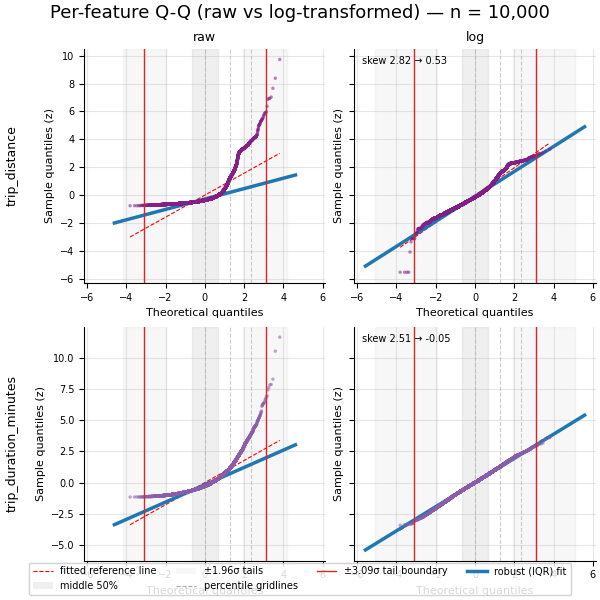
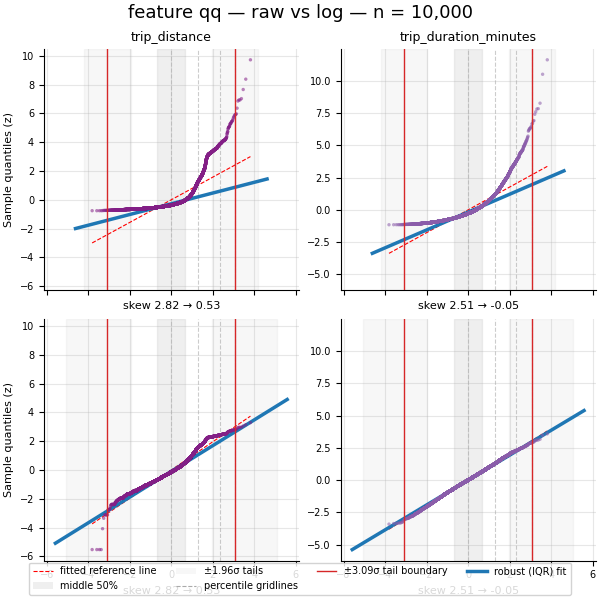
feat(qq): raw/log layout horizontal (raw top, log bottom, features as columns)

diff --git a/src/broadway/discover/qq.py b/src/broadway/discover/qq.py
@@ -292,30 +292,26 @@ def _plot_raw_log_pairs(
     n = len(pairs)
     colors = viz.palette_colors(n, palette)
     fig, axes = plt.subplots(
-        n, 2,
-        figsize=(2 * subplot_size, n * subplot_size),
-        sharex="row",
-        sharey="row",
+        2, n,
+        figsize=(n * subplot_size, 2 * subplot_size),
+        sharex="col",
+        sharey="col",
         squeeze=False,
         layout="constrained",
     )
-    axes[0][0].set_title("raw", fontsize=viz.TITLE_FONTSIZE)
-    axes[0][1].set_title("log", fontsize=viz.TITLE_FONTSIZE)
     any_shelf = False
-    for i, (name, raw_trace, log_trace, raw_skew, log_skew) in enumerate(pairs):
-        axes[i][0].text(
-            -0.3, 0.5, name, va="center", ha="center", rotation=90,
-            transform=axes[i][0].transAxes, fontsize=viz.TITLE_FONTSIZE,
-        )
-        for col, (trace, log_panel) in enumerate(((raw_trace, False), (log_trace, True))):
+    for j, (name, raw_trace, log_trace, raw_skew, log_skew) in enumerate(pairs):
+        axes[0][j].set_title(name, fontsize=viz.TITLE_FONTSIZE)
+        skew_str = f"skew {raw_skew:.2f} → {log_skew:.2f}"
+        for row, trace in enumerate((raw_trace, log_trace)):
             osm, osr, slope, intercept = trace
-            ax = axes[i][col]
+            ax = axes[row][j]
             ax.scatter(
                 osm, osr,
                 s=viz.QQ_SCATTER_SIZE,
                 alpha=viz.QQ_SCATTER_ALPHA,
                 edgecolor=viz.QQ_SCATTER_EDGE_COLOR,
-                color=colors[i],
+                color=colors[j],
                 zorder=3,
             )
             xs = np.array([osm.min(), osm.max()])
@@ -328,16 +324,13 @@ def _plot_raw_log_pairs(
             )
             any_shelf = draw_qq_zones(ax, zones, None, draw_shelf=False) or any_shelf
             _draw_qq_markers(ax, osm, osr, markers)
-            if log_panel:
-                ax.text(
-                    0.03, 0.97, f"skew {raw_skew:.2f} → {log_skew:.2f}",
-                    transform=ax.transAxes, va="top", fontsize=viz.TICK_FONTSIZE,
-                )
-            ax.set_xlabel(viz.QQ_XLABEL, fontsize=viz.LABEL_FONTSIZE)
-            ax.set_ylabel(viz.QQ_YLABEL, fontsize=viz.LABEL_FONTSIZE)
+            ax.set_xlabel(skew_str, fontsize=viz.LABEL_FONTSIZE)
+            ax.set_ylabel("", fontsize=viz.LABEL_FONTSIZE)
             ax.grid(True, alpha=viz.GRID_ALPHA)
             ax.tick_params(labelsize=viz.TICK_FONTSIZE)
             viz.despine(ax)
+    axes[0][0].set_ylabel("Sample quantiles (z)", fontsize=viz.LABEL_FONTSIZE)
+    axes[1][0].set_ylabel("Sample quantiles (z)", fontsize=viz.LABEL_FONTSIZE)
     attach_qq_legend(fig, zones, any_shelf, markers)
     title = title_prefix
     if n_figs > 1:
@@ -401,7 +394,7 @@ def _plot_qq_joint(
             pairs, out_path, 1, 1, viz_cfg.fig_size_per_subplot, viz_cfg.dpi,
             viz_cfg.palette, total, zones,
             markers,
-            title_prefix="Per-group Q-Q (raw vs log-transformed)",
+            title_prefix="normality qq — raw vs log",
         )
         return len(pairs)
     n_cols = max(1, int(np.ceil(np.sqrt(n))))
@@ -772,7 +765,7 @@ def plot_numeric_qq(
                 fig_num, len(log_chunks), fig_size_per_subplot, dpi, palette, n_rows,
                 cfg.qq_zones,
                 cfg.qq_markers,
-                title_prefix="Per-feature Q-Q (raw vs log-transformed)",
+                title_prefix="feature qq — raw vs log",
             )
             for n in chunk:
                 i = name_to_idx[n]

diff --git a/tests/test_qq.py b/tests/test_qq.py
@@ -120,10 +120,11 @@ def test_run_normality_raw_log_pairs_for_skewed_positive(tmp_path, monkeypatch) 
 
     assert (figures_dir / "normality_qq.png").exists()
     fig = captured[-1]
-    assert len(fig.axes) == 2 * len(groups)
-    log_axes = [fig.axes[i] for i in range(1, 2 * len(groups), 2)]
+    n = len(groups)
+    assert len(fig.axes) == 2 * n
+    log_axes = fig.axes[n:]
     for ax in log_axes:
-        assert any("skew" in t for t in [t.get_text() for t in ax.texts])
+        assert "skew" in ax.get_xlabel()
     assert step.result_summary.get("standardization") == "per-group z-score"
 
 
@@ -408,14 +409,51 @@ def test_plot_raw_log_pairs_shared_axes_and_skew(tmp_path, monkeypatch) -> None:
     fig = captured[-1]
     assert len(fig.axes) == 2 * 3
     ax_raw = fig.axes[0]
-    ax_log = fig.axes[1]
+    ax_log = fig.axes[3]
     assert ax_raw.get_xlim() == ax_log.get_xlim()
     assert ax_raw.get_ylim() == ax_log.get_ylim()
-    assert ax_raw.get_title() == "raw"
-    assert ax_log.get_title() == "log"
-    assert "f0" in [t.get_text() for t in ax_raw.texts]
-    assert any("skew" in t for t in [t.get_text() for t in ax_log.texts])
-    assert not any("skew" in t for t in [t.get_text() for t in ax_raw.texts])
+    assert ax_raw.get_title() == "f0"
+    assert ax_log.get_title() == ""
+    assert ax_raw.get_ylabel() == "Sample quantiles (z)"
+    assert ax_log.get_ylabel() == "Sample quantiles (z)"
+    assert "skew" in ax_raw.get_xlabel()
+    assert "skew" in ax_log.get_xlabel()
+    assert not any("skew" in t.get_text() for ax in fig.axes for t in ax.texts)
+
+
+def test_plot_raw_log_pairs_layout_raw_top_log_bottom(tmp_path, monkeypatch) -> None:
+    import broadway.discover.qq as qq_module
+
+    rng = np.random.default_rng(0)
+    zones = load_viz_config().qq_zones
+    names = ["alpha", "beta", "gamma"]
+    pairs = []
+    for name in names:
+        vals = np.exp(rng.normal(0.0, 1.0, 200))
+        pairs.append(
+            (
+                name,
+                _qq_points(vals, 10000),
+                _qq_points(np.log(vals), 10000),
+                float(stats.skew(vals)),
+                float(stats.skew(np.log(vals))),
+            )
+        )
+    captured: list = []
+    monkeypatch.setattr(qq_module.plt, "close", lambda fig: captured.append(fig))
+    qq_module._plot_raw_log_pairs(
+        pairs, tmp_path / "pairs.png", 1, 1, 3.0, 100, "BuPu_r", 600,
+        zones, _markers_off(), title_prefix="feature qq — raw vs log",
+    )
+    fig = captured[-1]
+    n = len(names)
+    assert len(fig.axes) == 2 * n
+    top_row = fig.axes[:n]
+    bottom_row = fig.axes[n:]
+    assert [ax.get_title() for ax in top_row] == names
+    assert all(ax.get_title() == "" for ax in bottom_row)
+    for ax in top_row + bottom_row:
+        assert "skew" in ax.get_xlabel()
 
 
 def test_plot_numeric_qq_discrete_right_skewed_no_log_figure(tmp_path) -> None:
